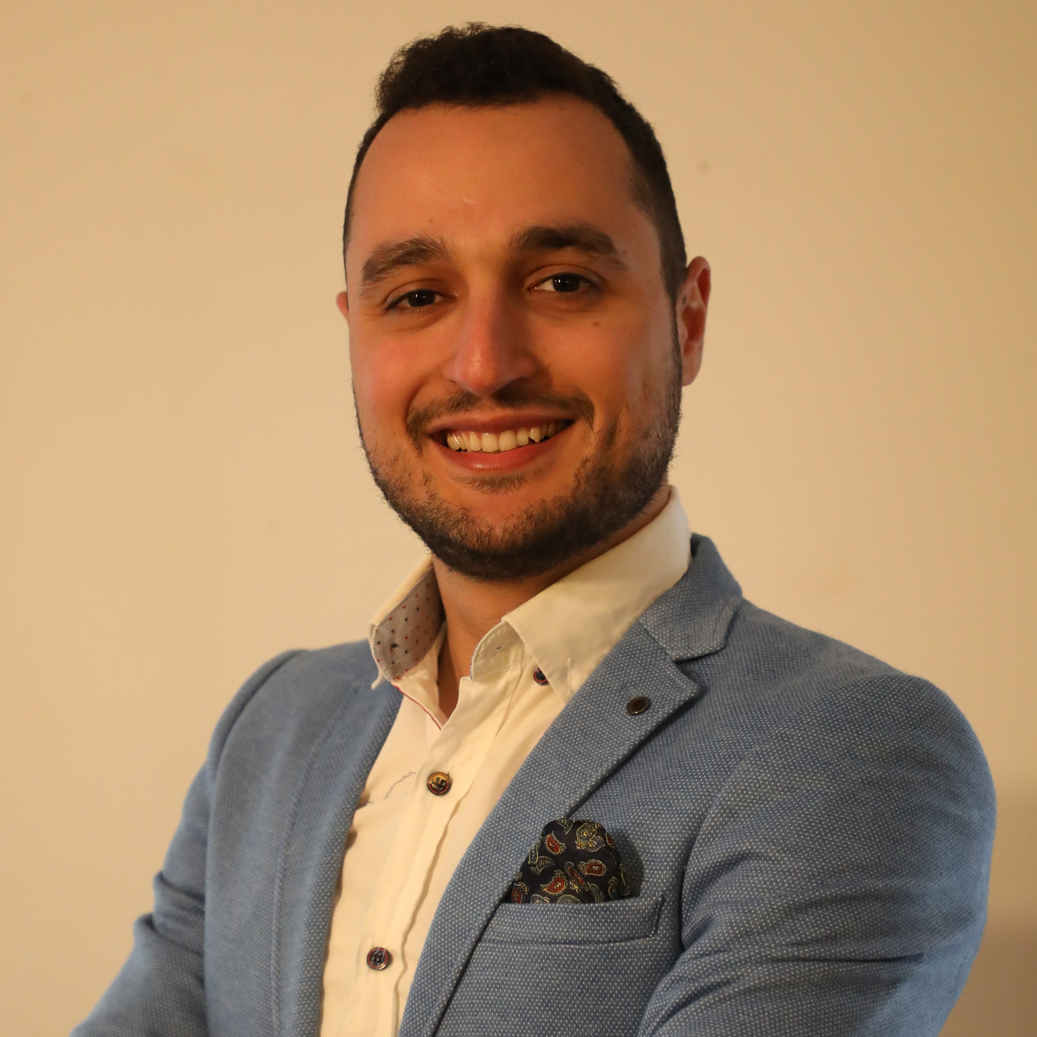
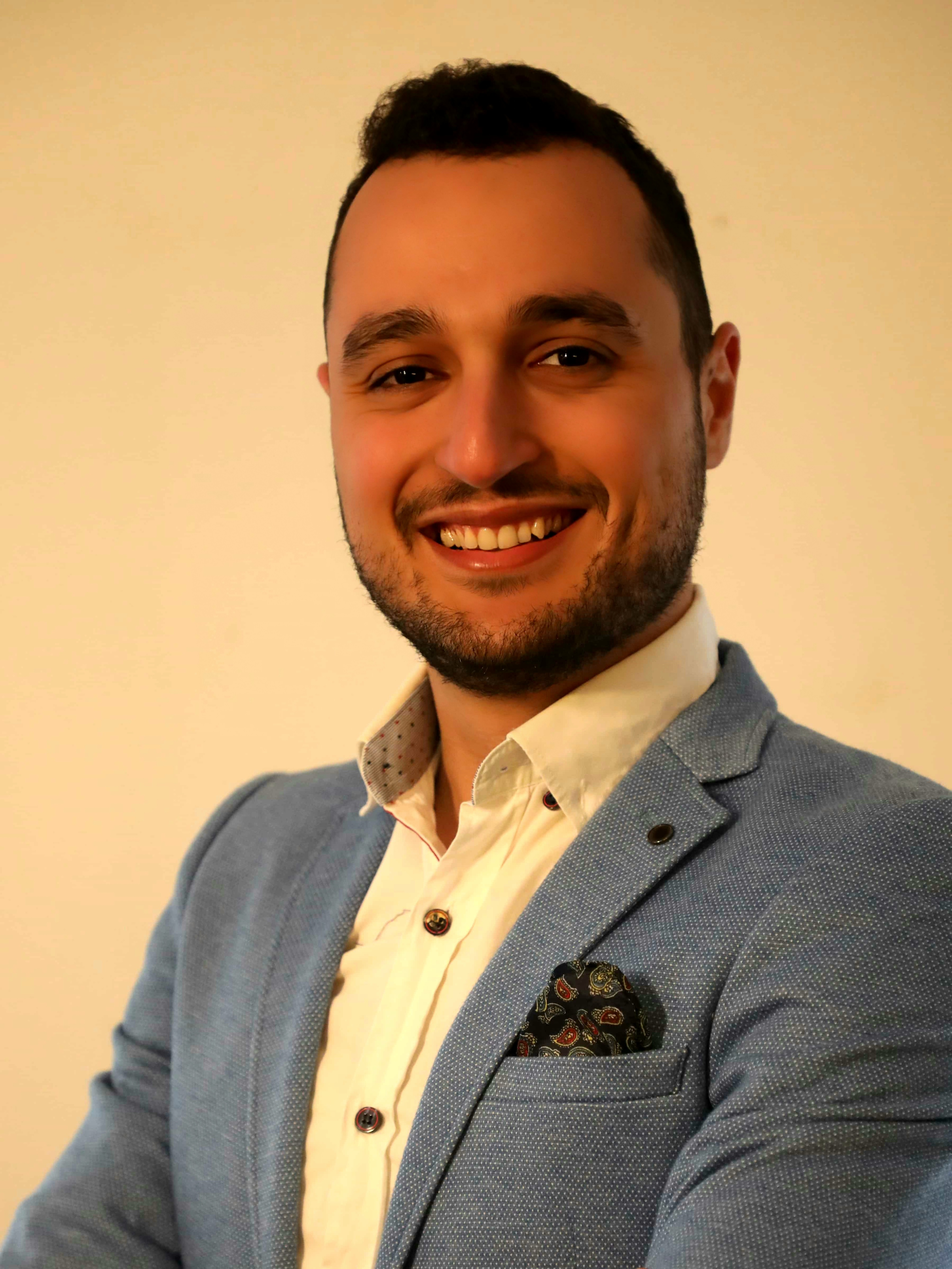
second commit - v1

diff --git a/index.html b/index.html
@@ -5,13 +5,13 @@
   <meta charset="utf-8">
   <meta content="width=device-width, initial-scale=1.0" name="viewport">
 
-  <title>Ibrahim Sbeity Webpage</title>
+  <title>Moustafa Rahal Webpage</title>
   <meta content="" name="description">
   <meta content="" name="keywords">
 
   <!-- Favicons -->
-  <link href="assets/img/favicon.png" rel="icon">
-  <link href="assets/img/apple-touch-icon.png" rel="apple-touch-icon">
+  <link href="assets/img/MRI.png" rel="icon">
+  <link href="assets/img/MRI.png" rel="MRI">
 
   <!-- Google Fonts -->
   <link href="https://fonts.googleapis.com/css?family=Open+Sans:300,300i,400,400i,600,600i,700,700i|Raleway:300,300i,400,400i,500,500i,600,600i,700,700i|Poppins:300,300i,400,400i,500,500i,600,600i,700,700i" rel="stylesheet">
@@ -26,6 +26,12 @@
 
   <!-- Template Main CSS File -->
   <link href="assets/css/style.css" rel="stylesheet">
+
+  <style> 
+    #silky {
+      border-radius: 25px;
+    }
+    </style>
 </head>
 
 <body>
@@ -49,11 +55,11 @@
   <!-- ======= Hero Section ======= -->
   <section id="hero" class="d-flex flex-column justify-content-center">
     <div class="container" data-aos="zoom-in" data-aos-delay="100">
-      <h1>Ibrahim Sbeity</h1>
-      <p><span class="typed" data-typed-items="Machine Learning, Wireless Communications, Localization"></span></p>
+      <h1>Moustafa Rahal</h1>
+      <p><span class="typed" data-typed-items="Wireless Communications, Localization, Signal Processing"></span></p>
       <div class="social-links">
-        <a href="https://www.linkedin.com/in/ibrahim-sbeity/" class="linkedin"><i class="bx bxl-linkedin"></i></a>
-        <a href="https://scholar.google.com/citations?user=bLDOOGMAAAAJ&hl=fr&oi=ao" class="google-plus"><i class="bx bxl-google"></i></a>
+        <a href="https://www.linkedin.com/in/moustafa-rahal-41999811b/" class="linkedin"><i class="bx bxl-linkedin"></i></a>
+        <a href="https://scholar.google.com/citations?user=QDYLVM4AAAAJ&hl=en&oi=sra" class="google-plus"><i class="bx bxl-google"></i></a>
       </div>
     </div>
 
@@ -71,21 +77,25 @@
 
         <div class="row">
           <div class="col-lg-4">
-            <img src="assets/img/profile-img.jpg" class="img-fluid" alt="">
+            <img src="assets/img/profile-img.jpg" class="img-fluid" id ="silky" alt="" >
           </div>
           <div class="col-lg-8 pt-4 pt-lg-0 content d-flex align-items-center">
             <!-- <h3>UI/UX Designer &amp; Web Developer.</h3> -->
             <p class="fst-italic">
-              Ibrahim Sbeity is a second-year PhD student currently affiliated with the <b>French Commission of Atomic Energy (CEA-Leti)</b>. He holds a Bachelor's degree in Electrical and Communication Engineering from Phoenicia University, Lebanon. Following his undergraduate studies, he pursued his Master's degree in Paris-Saclay University, France, specializing in the field of machine learning and control.
-              <br>
-              Throughout his academic journey, Ibrahim consistently demonstrated a deep interest in the domains of <b>Machine Learning</b> and <b>Localization</b>, which was evident through his various projects. Building upon his strong foundation, he embarked on his current doctoral research titled <b>"Deep Wireless Localization Using Artificial Intelligence for Challenging Environments"</b> at the Doctoral School of Cergy-Paris University. Ibrahim conducts his research at CEA-Leti, where he explores innovative approaches to wireless localization using cutting-edge techniques in artificial intelligence.
-              <br><br>
-              <i class="bi bi-chevron-right"></i> <strong>E-mail:</strong> <span>Ibrahim.Sbeity@CEA.fr</span>
+              Moustafa Rahal is a 3rd year PhD Research Engineer at the CEA Leti, Grenoble specializing in <b>Signal Processing and Future Telecom Systems.</b>
+              After succefully persuing his Bachelors and Masters degrees in "Computer Engineering and Architectures" and "Computer and Communications Engineering" respectively,
+              Moustafa commenced his <b>Ph.D. in "Radio-based mmWave localization using Reconfigurable Intelligent Surfaces (RIS) for terrestial Beyond 5G/6G Systems".</b>
+              During his thesis, Moustafa had the chance to do a research visit at the <b>Chalmers University of Technology</b> as part of the <b>EU H2020 Rise-6G project</b>, 
+              and act as deliverable editor to many of the project's reports.
+              Moreover, he has contributed to the academic community by succesfully publishing his work as papers in high-impact conference procceedings and prestigious journals.
+              Additionally, his background in Signal Processing is enforced and diversified by actively accomplishing various online trainings in the fields of <b>machine learning and deep learning.</b>
+              <!-- <i class="bi bi-chevron-right"></i> -->
+              <br><strong>E-mail:</strong> <span>moustafa.rahal@cea.fr</span>
             </p>
             <div class="row">
               <div class="col-lg-6">
                 <ul>
-                  <!-- <li><i class="bi bi-chevron-right"></i> <strong>E-mail:</strong> <span>Ibrahim.Sbeity@CEA.fr</span></li> -->
+                  <!-- <li><i class="bi bi-chevron-right"></i> <strong>E-mail:</strong> <span>moustafa.rahal@CEA.fr</span></li> -->
                 </ul>
               </div>
               <div class="col-lg-6">
@@ -110,41 +120,59 @@
             <div class="resume-item pb-0">
               <h4>2023</h4>
               <ul>
-                <li><b>I. Sbeity</b>, C. Villien, B. Denis, and E. V. Belmega, <a href="https://hal.science/hal-04121074"><b><em>"RNN-Based GNSS Positioning using Satellite Measurement Features and Pseudorange Residuals"</em></b></a>, ICL-GNSS 2023, Castellon, Spain.</li>
+                <!-- Conference Papers-->
+                <li><b>M. Rahal,</b> B. Denis, T. Mazloum, F. Munoz, R. D Errico, <a href="https://arxiv.org/abs/2306.10602"><b><em>“Ris-aided positioning experiments based on mmwave indoor channel measurements,"</em></b></a> IPIN 2023, Nuremberg, Germany.</li>
 
-                <li><b>I. Sbeity</b>, C. Villien, C. Combettes, B. Denis, E. V. Belmega, and M. Chafii, <a href="https://hal.science/hal-04116296"><b><em>"A Novel Satellite Selection Algorithm Using LSTM Neural Networks for Single-Epoch Localization"</em></b></a>, IEEE/ION PLANS 2023, Monterey, CA, USA.</li> 
-              </ul>
-            </div>
+                <!-- Journal Papers-->
+                <li><b>M. Rahal,</b> B. Denis, K. Keykhosravi, F. M. Keskin, B. Uguen, G. C. Alexandropoulos, H. Wymeersch, <a href=""><b><em>“Performance of RIS-Aided Nearfield Localization Under Beams Approximation from Real Hard-
+                  ware Characterization,"</em></b></a> EURASIP JWCN 2023.</li>
 
-            <h3 class="resume-title">Awards</h3>
-            <div class="resume-item">
-              <h4>2023</h4>
-              <h5><b><em>Best Paper Award</em> 🏆 </b></h5>
-              
-              <ul>
-                <li><b>I. Sbeity</b>, C. Villien, B. Denis, and E. V. Belmega, <a href="https://hal.science/hal-04121074"><b><em>"RNN-Based GNSS Positioning using Satellite Measurement Features and Pseudorange Residuals"</em></b></a>, ICL-GNSS 2023, Castellon, Spain.</li>
+                <li><b>G. C. Alexandropoulos,</b> et al., <a href="https://arxiv.org/abs/2303.08505"><b><em>“RIS-Enabled Smart Wireless Environments: Deployment Scenarios, Network Architecture, Bandwidth and Area of Influence,"</em></b></a> EURASIP JWCN 2023.</li>
               </ul>
-            </div>
 
-            <h3 class="resume-title">Reviewing</h3>
-            <div class="resume-item">
-              <h4>2023</h4>
-              <ul>
-                <li>IEEE Internet of Things Magazine 2022</li>
-              </ul>
-            </div>
-
-            <h3 class="resume-title">Invited Talks and Posters</h3>
-            <div class="resume-item">
-              <h4>2023</h4>
-              <ul>
-                <li>CEA lab meeting talk, <b>”A Novel Satellite Selection Algorithm Using LSTM Neural Networks For Single-epoch Localization”</b>, Grenoble, March 2023</li>
-                <li>ETIS PhD Day, Cergy, 2023 (poster)</li>
-                <li>ETIS invited talk, <b>”RNN-Based GNSS Positioning using Satellite Measurement Features and Pseudorange Residuals”</b>, Cergy, May 2023</li>
-              </ul>
               <h4>2022</h4>
               <ul>
-                <li>CEA PhD Day, Grenoble, 2022</li>
+              <li><b>M. Rahal,</b> B. Denis, K. Keykhosravi, F. M. Keskin, B. Uguen, H. Wymeersch, <a href="https://ieeexplore.ieee.org/document/9860413"><b><em>“Constrained RIS Phase Profile Optimization and Time Sharing for Near-field Localization,"</em></b></a> IEEE VTC-Spring 2022, Helsinki, Finland.</li>
+
+              <li><b>M. Rahal,</b> B. Denis, K. Keykhosravi,  F. M. Keskin, B. Uguen, G. C. Alexandropoulos, H. Wymeersch, <a href="https://ieeexplore.ieee.org/document/9815624"><b><em>“Arbitrary Beam Pattern Approximation via RISs with Measured Element Responses,"</em></b></a> EuCNC&6G-Summit 2022.</li>
+              </ul>
+
+              <h4>2021</h4>
+              <ul>
+              <li><b>M. Rahal,</b> B. Denis, K. Keykhosravi, B. Uguen, H. Wymeersch, <a href="https://ieeexplore.ieee.org/document/9593200"><b><em>“RIS-Enabled Localization Continuity Under Near-Field Conditions,"</em></b></a> IEEE SPAWC 2021, Lucca, Italy.</li>
+              </ul>
+            </div>
+
+            <h3 class="resume-title">Courses and Certificates</h3>
+            <div class="resume-item">
+              <ul>
+                <li><em><a href="https://coursera.org/share/9358358ee2f22c243a5ed11e3ea2554d">Machine Learning with Python, </a></em>IBM</li>
+                <li><em><a href="https://coursera.org/share/004503defe89f8e8c873c02cce400925">Advanced Machine Learning and Signal Processing, </a></em>IBM</li>
+                <li><em><a href="https://coursera.org/share/7a6deec9f754ea1f64eda3db138e7443">Introduction to Deep Learning and Neural Networks with Keras, </a></em>IBM</li>
+                <li><em>Terrestrial Radio Positioning, </em>Chalmers University of Technology</li>
+                <li><em>Complex Networks and Telecommunications (CNTC2020) Summer School.</em></li>
+              </ul>
+            </div>
+
+            <h3 class="resume-title">Community Contributions: Peer Reviews</h3>
+            <div class="resume-item">
+              <ul>
+                <li>IEEE Sensors Journal 2023</li>
+                <li>IEEE Transactions on Communications 2023</li>
+                <li>IEEE Wireless Communications Letter (WCL) 2023</li>
+                <li>IEEE ICASP 2023</li>
+                <li>IPIN 2023</li>
+                <li>VTC-Spring 2022</li>
+              </ul>
+            </div>
+
+            <h3 class="resume-title">Invited Talks</h3>
+            <div class="resume-item">
+              <ul>
+                <li>CEA lab meeting Presentation, <b>”RIS-enabled Localization: Overcoming Blockages in the Near-field Regime”.</b></li>
+                <li>CEA STSF Focus Technique, <b>"From RIS-enabled Localization to RIS-boosted Performance: Phase Profile Optimization".</b></li>
+                <li>STSF/DSYS Assembly, <b>”RIS as a Key Enabling Localization Technology for the Future 6G Systems”.</b></li>
+                <li>CEA PhD Day, Grenoble, 2021, 2022 & 2023.</li>
               </ul>
             </div>
 
@@ -160,14 +188,14 @@
   <!-- ======= Footer ======= -->
   <footer id="footer">
     <div class="container">
-      <h3>Ibrahim Sbeity</h3>
+      <h3>Moustafa Rahal</h3>
       <div class="social-links">
         
-        <a href="https://www.linkedin.com/in/ibrahim-sbeity/" class="linkedin"><i class="bx bxl-linkedin"></i></a>
-        <a href="https://scholar.google.com/citations?user=bLDOOGMAAAAJ&hl=fr&oi=ao" class="google-plus"><i class="bx bxl-google"></i></a>
+        <a href="https://www.linkedin.com/in/moustafa-rahal-41999811b/" class="linkedin"><i class="bx bxl-linkedin"></i></a>
+        <a href="https://scholar.google.com/scholar?hl=fr&as_sdt=0%2C5&q=Moustafa+rahal&btnG=&oq=mous" class="google-plus"><i class="bx bxl-google"></i></a>
       </div>
       <div class="copyright">
-        &copy; Copyright <strong><span>Ibrahim Sbeity</span></strong>. All Rights Reserved
+        &copy; <strong><span>Moustafa Rahal</span></strong>. All Rights Reserved
       </div>
     </div>
   </footer><!-- End Footer -->

diff --git a/assets/css/style.css b/assets/css/style.css
@@ -278,7 +278,7 @@ h6 {
 #hero {
   width: 100%;
   height: 100vh;
-  background: url("../img/hero-bg.jpg") top right no-repeat;
+  background: url("../img/background-photo.png") top right no-repeat;
   background-size: cover;
   position: relative;
 }
